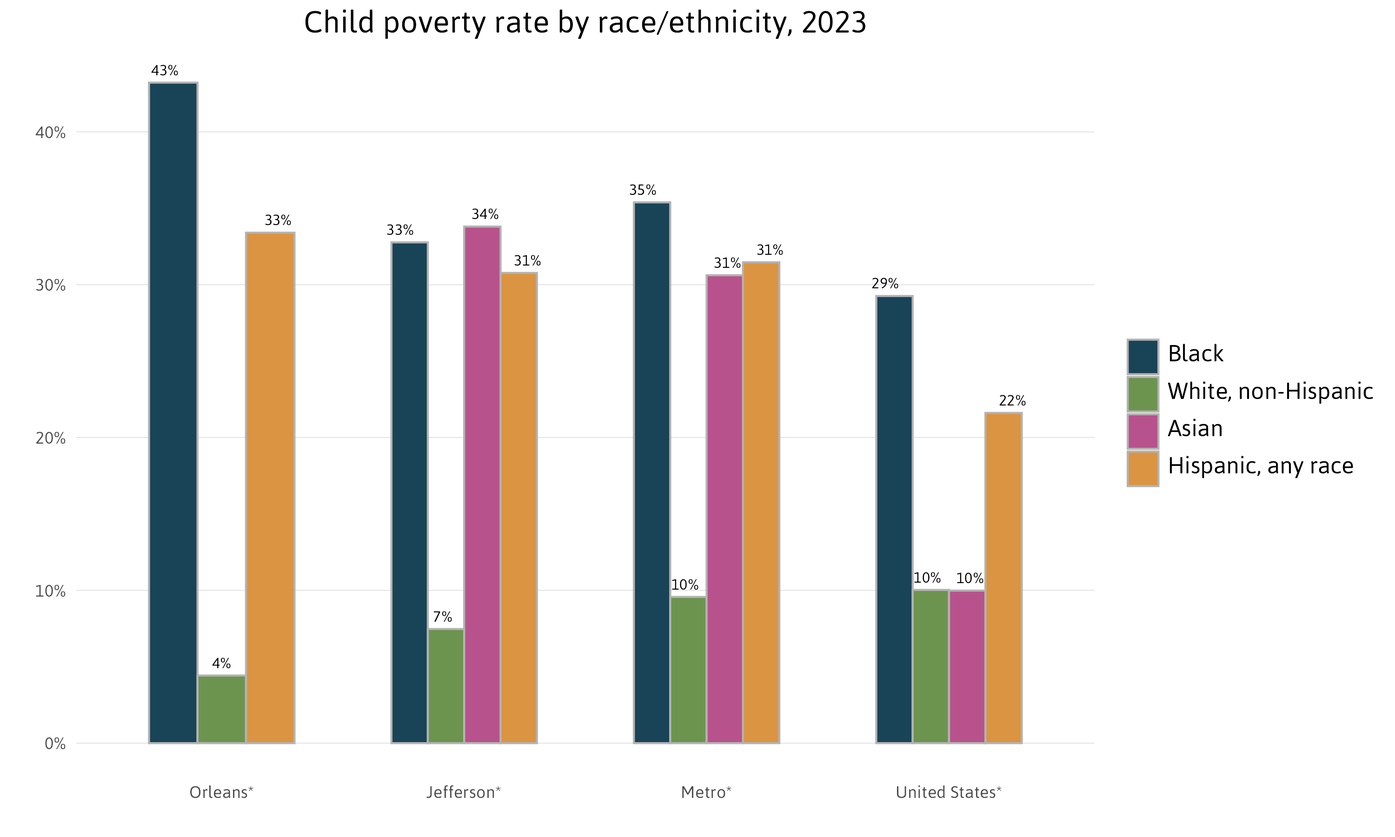
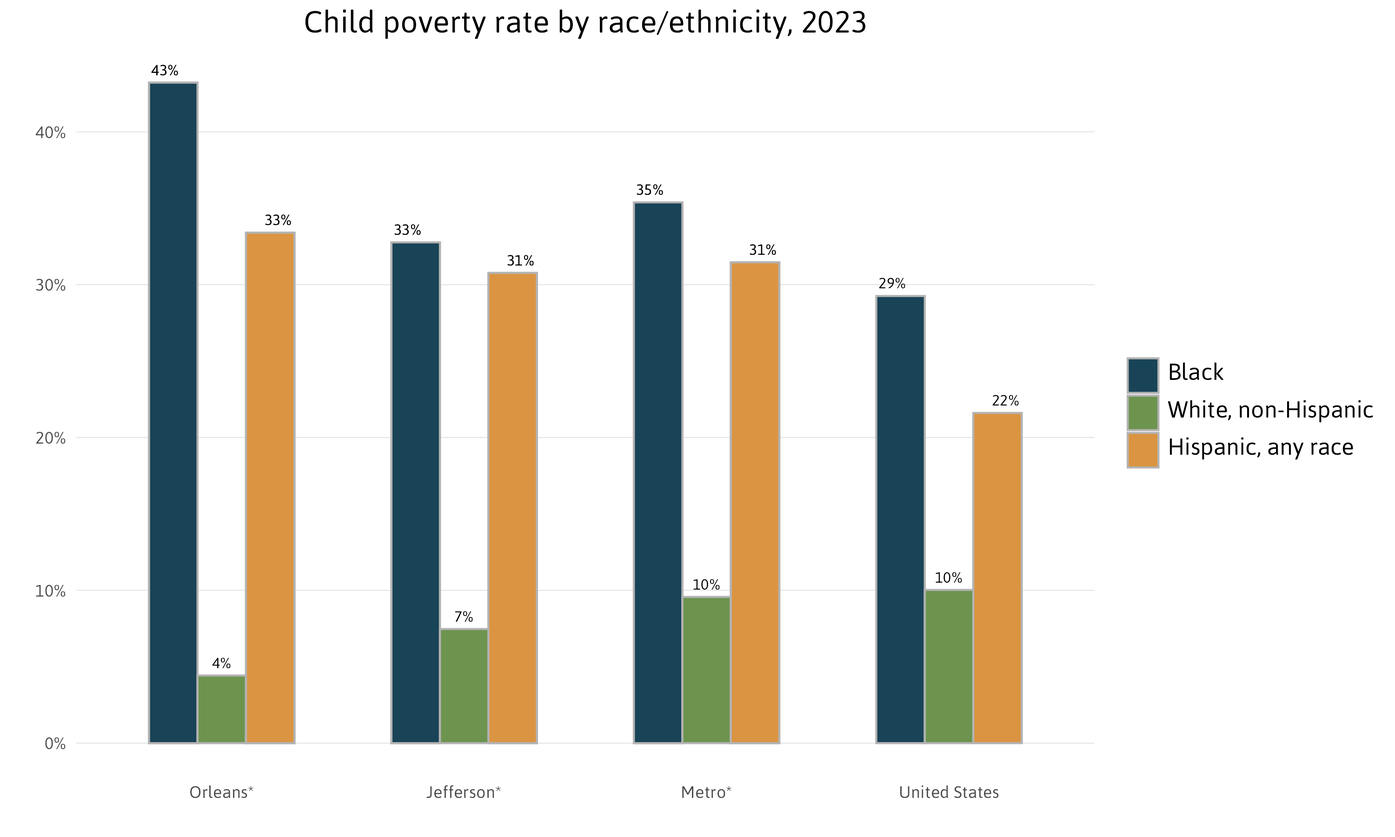
final touches to Rmd

diff --git a/WhoLivesMarkdown.md b/WhoLivesMarkdown.md
@@ -1,6 +1,6 @@
 <div class="highlight" markdown="1"> 
 
-This brief examines the 2023 demographic data released by the U.S. Census Bureau covering race, ethnicity, and age.  This brief also covers 2023 estimates from the Census Bureau's annual American Community Survey (ACS) on a range of important topics such as educational attainment, poverty, and housing costs.   In 2023, the official definition of the New Orleans metro area changed to exclude St. Tammany, because a smaller portion of workers who live in St. Tammany are commuting to work in Orleans, Jefferson, and other parishes on the south shore of Lake Pontchartrain. To learn more about how metro areas are defined and how this change came about read this [Research Note](https://www.datacenterresearch.org/reports_analysis/on-st-tammanys-split-from-the-new-orleans-metro/).
+This brief examines the 2023 demographic data released by the U.S. Census Bureau covering race, ethnicity, and age. This brief also covers 2023 estimates from the Census Bureau's annual American Community Survey (ACS) on a range of important topics such as educational attainment, poverty, and housing costs. In 2023, the official definition of the New Orleans metro area changed to exclude St. Tammany, because a smaller portion of workers who live in St. Tammany are commuting to work in Orleans, Jefferson, and other parishes on the south shore of Lake Pontchartrain. To learn more about how metro areas are defined and how this change came about read this [Research Note](https://www.datacenterresearch.org/reports_analysis/on-st-tammanys-split-from-the-new-orleans-metro/).
 </div>
 
 The U.S. Census Bureau estimates that 962,165 residents were living in
@@ -14,7 +14,7 @@ metro area parishes since 2000 (or the best benchmark available).
 
 Compared to 2000, pre-Katrina, there are now 120,876 fewer Black
 residents living in New Orleans (Orleans Parish), and there are 23,503
-fewer White residents as well as 14,531 more Hispanic residents.[^2]
+fewer White residents, as well as 14,531 more Hispanic residents.[^2]
 
 <img src="https://s3.amazonaws.com/files.datacenterresearch/who-lives/2024/09/AAWhiteHispan-1.png" style="display: block; margin: auto;" />
 
@@ -49,13 +49,13 @@ area since 2000.
 </div>
 
 Between 2000 and 2023, the number of Hispanics in Jefferson Parish more
-than doubled – reaching 79,805 or more than 19 percent of the total
+than doubled — reaching 79,805 or more than 19 percent of the total
 parish population. In Orleans and St. Bernard parishes, the Hispanic
-population nearly doubled – growing to 29,563 (8 percent of the
+population nearly doubled — growing to 29,563 (8 percent of the
 population) in Orleans and 6,206 (14 percent of the population) in
-St. Bernard. The number of Hispanics St. Charles, St. John the Baptist,
-Plaquemines, and St. James more than doubled reaching 4,231, 3,788,
-2,250, and 395 respectively.
+St. Bernard. The number of Hispanics in St. Charles, St. John the
+Baptist, Plaquemines, and St. James more than doubled reaching 4,231,
+3,788, 2,250, and 395 respectively.
 
 As of July 2023, there were 126,238 Hispanics in the metro area,
 representing 13 percent of the metro population. This is up from 2000
@@ -91,15 +91,15 @@ Hispanic is an umbrella term comprising multiple nationalities and
 ethnicities. Researchers have shown that most Hispanics prefer to
 identify by nationality rather than by pan-ethnic terms such as
 “Hispanic” and “Latino.”[^3] The nationalities of Hispanics residing in
-metro New Orleans are quite distinct from the national Hispanic profile.
+Metro New Orleans are quite distinct from the national Hispanic profile.
 
-In 2023, the largest Hispanic group in metro New Orleans was Honduran,
+In 2023, the largest Hispanic group in Metro New Orleans was Honduran,
 representing 29 percent of the Hispanic population. In comparison,
 Hondurans represent only 2 percent of the national Hispanic population.
-These figures point to metro New Orleans as a hub of Honduran migration.
+These figures point to Metro New Orleans as a hub of Honduran migration.
 
 Not to be ignored, the Mexican population represents 16 percent of the
-Hispanic population in metro New Orleans. Nevertheless, the Mexican
+Hispanic population in Metro New Orleans. Nevertheless, the Mexican
 population is much less prominent in the metro than nationally, where it
 represents 58 percent of the Hispanic population.
 
@@ -165,7 +165,7 @@ percent.
 **Source**: The Data Center analysis of U.S. Census Bureau data from Census 2000 SF3 and American Community Survey 2023.</p>
 </div>
 
-Overall the youth population is substantially lower than pre-Katrina
+Overall, the youth population is substantially lower than pre-Katrina
 levels. The metro had 303,054 children under 18 years in 2000 and only
 206,918 in 2023. More than half of this loss was driven by Orleans
 Parish, where the population under 18 has declined to 70,990 from
@@ -181,9 +181,9 @@ population, down from 27 percent in 2000.
 </div>
 <div class="highlight" markdown="1"> 
 
-### Where is data for Plaquemines, St. Bernard, St. James, St. Charles, and St. John the Baptist?
+### Where is data for Plaquemines, St. Bernard, St. James, St. Charles, and St. John the Baptist?
 
-Although race/ethnicity and age data is available for all seven parishes in metro New Orleans, most other demographic data (such as educational attainment, poverty, and homeownership) is available for only the two most populous parishes of Jefferson and Orleans, as well as the metro.
+Although race/ethnicity and age data is available for all seven parishes in Metro New Orleans, most other demographic data (such as educational attainment, poverty, and homeownership) is available for only the two most populous parishes of Jefferson and Orleans, as well as the metro.
 </div>
 
 ## Educational attainment, income, and employment {#educational-attainment-income-and-employment}
@@ -193,7 +193,7 @@ workforce skills, and regional resiliency.[^5] In New Orleans, 45
 percent of adults 25 and older had at least a bachelor’s degree in 2023
 — higher than the U.S. average of 36 percent, and up from 26 percent in
 2000. The Jefferson Parish share of adults with a bachelor’s degree is
-30 percent up from 21 percent in 2000. Overall the share of adults with
+30 percent up from 21 percent in 2000. Overall, the share of adults with
 a bachelor’s degree in Metro New Orleans from 22 to 35 percent — just
 short of the national average of 36 percent.
 
@@ -206,9 +206,9 @@ short of the national average of 36 percent.
 
 The share of New Orleans adults who have a bachelor’s degree has grown
 across racial and ethnic groups since 1980. But while 72 percent of
-White adults in New Orleans have a bachelor’s, only 47 percent of Asian
-adults, 43 percent of Hispanic adults, and 27 percent of Black adults in
-New Orleans have a bachelor’s as of 2023.
+White adults in New Orleans have a bachelor’s, only 43 percent of
+Hispanic adults, and 27 percent of Black adults in New Orleans have a
+bachelor’s as of 2023.
 
 <img src="https://s3.amazonaws.com/files.datacenterresearch/who-lives/2024/09/bachovertime-1.png" style="display: block; margin: auto;" />
 
@@ -224,9 +224,9 @@ New Orleans have a bachelor’s as of 2023.
 
 <div class="source" style="clear: left; padding-left: 30px;" markdown="1"> 
 
-∗ = In Orleans Parish, the difference between Hispanic and Asian is not statistically significant.   
+**Notes**: Due to high margins of error, data for Asians is not included in this chart.   
 ∗ = In Jefferson Parish, the difference between Black and Hispanic is not statistically significant.   
-∗ = In the New Orleans Metro area, the difference between White and Asian and Black and Hispanic is not statistically significant.   
+∗ = In Metro New Orleans, the difference between Black and Hispanic is not statistically significant.   
 **Source**: The Data Center analysis of U.S. Census Bureau data from American Community Survey 2023.</p>
 </div>
 
@@ -238,7 +238,7 @@ Jefferson, and the metro as a whole. The metro share of adults without a
 high school degree fell from 23 percent in 2000 to 12 percent in 2023.
 In Jefferson Parish, 14 percent of adults 25 and older have less than a
 high school degree while in New Orleans only 9 percent of adults have
-less than a high school degree – lower than the national average.
+less than a high school degree — lower than the national average.
 
 <img src="https://s3.amazonaws.com/files.datacenterresearch/who-lives/2024/09/hs-1.png" style="display: block; margin: auto;" />
 
@@ -247,7 +247,7 @@ less than a high school degree – lower than the national average.
 **Source**: The Data Center analysis of U.S. Census Bureau data from Census 2000 SF3 and American Community Survey 2023.</p>
 </div>
 
-The 2023 median household income in Orleans Parish is $55,580 – 13
+The 2023 median household income in Orleans Parish is $55,580 — 13
 percent higher than in 2000 after controlling for inflation. Meanwhile,
 the median household income in Jefferson Parish, at $61,085 is 12
 percent lower than in 2000 after controlling for inflation. The 2023
@@ -259,7 +259,7 @@ significantly lower than the U.S. median of $77,719.
 
 <div class="source" style="clear: left; padding-left: 30px;" markdown="1"> 
 
-∗ = Difference between 1999 and 2023 is not significant at 95% confidence interval.   
+**Notes**: 1999 data is not available for Metro New Orleans.   
 **Source**: The Data Center analysis of U.S. Census Bureau data from Census 2000 SF3 and American Community Survey 2023.</p>
 </div>
 
@@ -267,9 +267,9 @@ In 1979, households with higher incomes were disproportionately in the
 parishes surrounding New Orleans, while lower income White, Hispanic,
 and Black households were more likely to live in the city.[^6] By 2023,
 these patterns had changed with higher income White households more
-often living in the city such that income disparity within the city has
+often living in the city, such that income disparity within the city has
 escalated. In 2023, Black households in New Orleans had a median income
-of only $38,092, while Hispanic households were at $56,992 and White
+of only $38,092, while Hispanic households were at $56,992, and White
 households at $97,494.
 
 <img src="https://s3.amazonaws.com/files.datacenterresearch/who-lives/2024/09/medhhtime-1.png" style="display: block; margin: auto;" />
@@ -286,19 +286,16 @@ households at $97,494.
 In 2023, Black households in New Orleans have incomes 61 percent less
 than White households. In Jefferson, Black households have a median
 income of $40,198 which is 45 percent less than White households in that
-parish who have a median income of 73678. Notably, Black households
-across the metro have a median income of 40841, which is well below
-their national peers (53927). And Asian households in Metro New Orleans
-have a median income of 68079 which is about 40 percent lower than their
-national peers (111817).
+parish who have a median income of $73,678. Notably, Black households
+across the metro have a median income of $40,841, which is well below
+their national peers ($53,927).
 
 <img src="https://s3.amazonaws.com/files.datacenterresearch/who-lives/2024/09/medhhbyrace-1.png" style="display: block; margin: auto;" />
 
 <div class="source" style="clear: left; padding-left: 30px;" markdown="1"> 
 
-∗ = In Orleans Parish, the difference between Black and Hispanic and Hispanic and Asian is not statistically significant.  
-∗ = In Jefferson Parish, the difference between White and Asian and Hispanic and Asian is not statistically significant.   
-∗ = In the New Orleans Metro Area, the difference between Hispanic and Asian is not statistically significant.   
+**Notes**: Due to high margins of error, data for Asians is not included in this chart.   
+∗ = In Orleans Parish, the difference between Black and Hispanic is not statistically significant.  
 
 **Source**: The Data Center analysis of U.S. Census Bureau data from American Community Survey 2023.</p>
 </div>
@@ -320,9 +317,9 @@ Black men had employment.
 
 <div class="source" style="clear: left; padding-left: 30px;" markdown="1"> 
 
-∗ = Change in time is not significant for White and Hispanic males.  
-∗ = Change in time is not significant for Black males for 2000-2010 and 2000-2023.
-∗ = Change in time is not significant for Black females for 2010-2023.   
+∗ = Change in time is not significant for Hispanic Males.   
+∗ = Change in time is not significant for White and Black males and females for 2000-2010.     
+∗ = Change in time is not significant for Hispanic females for 2010-2023.   
 **Source**: The Data Center analysis of U.S. Census Bureau data from American Community Survey 2023.</p>
 </div>
 
@@ -337,9 +334,10 @@ national peers.
 
 <div class="source" style="clear: left; padding-left: 30px;" markdown="1"> 
 
-**Notes**: The Hispanic employment rate by gender is unavailable for Orleans Parish in 2023.   
+**Notes**: Due to high margins of error, data for Asians is not included in this chart.   
+∗ = In Orleans Parish, the difference between White and Hispanic males is not significant.   
 ∗ = In Jefferson Parish, the difference between White and Black males, White and Black females, White and Hispanic females, and Black and Hispanic females is not significant.   
-∗ = In the New Orleans Metro area, the difference between White and Hispanic females is not significant.   
+∗ = In Metro New Orleans, the difference between White and Hispanic females is not significant.   
 
 **Source**: The Data Center analysis of U.S. Census Bureau data from American Community Survey 2023.</p>
 </div>
@@ -350,22 +348,21 @@ A high share of residents living below the poverty level indicates the
 economy is not providing many residents with the ability to meet their
 most basic needs, including food, housing, and transportation. The
 poverty rate in New Orleans decreased from 28 to 23 percent between 1999
-and 2023while the Jefferson Parish poverty rate increased from 14 to 17
-percent. Across the U.S., the poverty rate increased by one percentage
-point between 1999 and 2023.
+and 2023, while the Jefferson Parish poverty rate increased from 14 to
+17 percent. Across the U.S., the poverty rate increased by one
+percentage point between 1999 and 2023.
 
 <img src="https://s3.amazonaws.com/files.datacenterresearch/who-lives/2024/09/pov-1.png" style="display: block; margin: auto;" />
 
 <div class="source" style="clear: left; padding-left: 30px;" markdown="1"> 
 
-∗ = Difference between 1999 and 2023 is not significant at 95% confidence interval.   
 **Source**: The Data Center analysis of U.S. Census Bureau data from Census 2000 SF3 and American Community Survey 2023.</p>
 </div>
 <div class="highlight" markdown="1"> 
 
 ### How is poverty measured? 
 
-The Census still uses the federal definition for poverty that was first created in 1964. The original calculations were based on studies from the early 1960s that indicated that family food costs were about one-third of a family’s budget. But housing costs have risen much faster than food costs since 1964. Also, the current calculations don’t count non-cash government aid, like Child Tax Credits or housing subsidies, as income. And they aren’t adjusted for differences in costs of living in different parts of the country. Given these limitations, the Census began publishing a Supplemental Poverty Measure that incorporates up-to-date data on regional housing costs as well as several kinds of government aid.  According to the Census, the 2020 Supplemental Poverty Rate for the U.S. was 9.1 percent. The Official Poverty Rate that same year was 11.4 percent.[^8]  The Census Bureau does not calculate Supplemental Poverty Rates for geographies smaller than the nation as a whole.[^9]
+The Census still uses the federal definition for poverty that was first created in 1964. The original calculations were based on studies from the early 1960s that indicated that family food costs were about one-third of a family’s budget. But housing costs have risen much faster than food costs since 1964. Also, the current calculations don’t count non-cash government aid, like Child Tax Credits or housing subsidies, as income. And they aren’t adjusted for differences in costs of living in different parts of the country. Given these limitations, the Census began publishing a Supplemental Poverty Measure that incorporates up-to-date data on regional housing costs as well as several kinds of government aid. According to the Census, the 2023 Supplemental Poverty Rate for the U.S. was 12.9 percent. The Official Poverty Rate that same year was 11.1 percent.[^8] The Census Bureau does not calculate Supplemental Poverty Rates for geographies smaller than the nation as a whole.[^9]
 </div>
 
 The poverty rate for Black New Orleanians spiked when the 1980s “oil
@@ -389,23 +386,23 @@ remained about triple that of White New Orleanians.
 
 Large disparities in the poverty rate continue to be evident at all
 geographic levels. For example, in Metro New Orleans 26 percent of Black
-people, 22 percent of Hispanic people, and 20 percent of Asian people
-live in poverty compared to 10 percent of White people.
+people and 22 percent of Hispanic people live in poverty compared to 10
+percent of White people.
 
 <img src="https://s3.amazonaws.com/files.datacenterresearch/who-lives/2024/09/povbyrace-1.png" style="display: block; margin: auto;" />
 
 <div class="source" style="clear: left; padding-left: 30px;" markdown="1"> 
 
-∗ = In Orleans Parish, the difference between White and Asian, Black and Asian, and Hispanic and Asian is not statistically significant.   
-∗ = In Jefferson Parish, the difference between Black and Hispanic, Black and Asian, and Hispanic and Asian is not statistically significant.   
-∗ = In the New Orleans Metro Area, the difference between Black and Hispanic, Black and Asian, and Hispanic and Asian is not statistically significant.   
+**Notes**: Due to high margins of error, data for Asians is not included in this chart.   
+∗ = In Jefferson Parish, the difference between Black and Hispanic is not statistically significant.   
+∗ = In the New Orleans Metro Area, the difference between Black and Hispanic is not statistically significant.   
 **Source**: The Data Center analysis of U.S. Census Bureau data from American Community Survey 2023.</p>
 </div>
 
 Like the overall poverty rate, the child poverty rate in New Orleans
 decreased from 41 percent 1999 to 32 percent in 2023. In Jefferson, 23
-percent of children live in poverty and across the metro 25, both higher
-than the national rate.
+percent of children live in poverty and across the metro 25 percent,
+both higher than the national rate.
 
 <img src="https://s3.amazonaws.com/files.datacenterresearch/who-lives/2024/09/childpov-1.png" style="display: block; margin: auto;" />
 
@@ -415,12 +412,12 @@ than the national rate.
 **Source**: The Data Center analysis of U.S. Census Bureau data from Census 2000 SF3 and American Community Survey 2023.</p>
 </div>
 
-In Orleans Parish,43 percent of Black children live in poverty while 4
+In Orleans Parish, 43 percent of Black children live in poverty while 4
 percent of White children are poor. In New Orleans, child poverty rates
-peaked in 1989 for Black children and have fallen, but, at 43 percent,
-are still 10 times higher than poverty rate for White children in New
-Orleans. The poverty rate for White children has declined from about one
-in 10 children in poverty in 1979 to about one in 50 in 2023.
+peaked in 1989 for Black children and have fallen, but at 43 percent are
+still 10 times higher than poverty rate for White children in New
+Orleans. The poverty rate for White children has declined from about 1
+in 10 children in poverty in 1979 to about 1 in 50 in 2023.
 
 <img src="https://s3.amazonaws.com/files.datacenterresearch/who-lives/2024/09/childpovhist-1.png" style="display: block; margin: auto;" />
 
@@ -435,19 +432,18 @@ in 10 children in poverty in 1979 to about one in 50 in 2023.
 
 While in Orleans, poverty rates for Black children are 10 times higher
 than for White children, in Jefferson Parish Black children experience
-poverty about 5 times higher rates than White children. In Metro New
-Orleans, 31 percent of Hispanic children live in poverty – higher than
+poverty about five times higher rates than White children. In Metro New
+Orleans, 31 percent of Hispanic children live in poverty — higher than
 their national peers of whom 22 percent live in poverty.
 
 <img src="https://s3.amazonaws.com/files.datacenterresearch/who-lives/2024/09/childpovrace-1.png" style="display: block; margin: auto;" />
 
 <div class="source" style="clear: left; padding-left: 30px;" markdown="1"> 
 
-**Notes**: Due to high margins of error, the comparison between any race and Asian is not statistically significant in Orleans Parish.   
+**Notes**: Due to high margins of error, data for Asians is not included in this chart.   
 ∗ = In Orleans Parish, the difference between Black and Hispanic is not statistically significant.   
-∗ = In Jefferson Parish, the difference between Black and Asian, Black and Hispanic, and Hispanic and Asian is not statistically significant.   
-∗ = In the New Orleans Metro Area, the difference between Black and Hispanic, Black and Asian, and Hispanic and Asian is not statistically significant.   
-∗ = In United States, the difference between White and Asian is not statistically significant.   
+∗ = In Jefferson Parish, the difference between Black and Hispanic is not statistically significant.   
+∗ = In the New Orleans Metro Area, the difference between Black and Hispanic is not statistically significant.     
 **Source**: The Data Center analysis of U.S. Census Bureau data from Census 2000 SF3 and American Community Survey 2023.</p>
 </div>
 
@@ -461,7 +457,6 @@ transportation system and comprehensive evacuation plan.
 
 <div class="source" style="clear: left; padding-left: 30px;" markdown="1"> 
 
-∗ = Difference between 2000 and 2023 is not significant at 95% confidence interval.   
 **Source**: The Data Center analysis of U.S. Census Bureau data from Census 2000 SF3 and American Community Survey 2023.</p>
 </div>
 
@@ -538,7 +533,7 @@ was 5 percent in 2004 and has not significantly changed.
 <div class="source" style="clear: left; padding-left: 30px;" markdown="1"> 
 
 **Notes**: Share not included in the bar chart represents the population who lived in the same house one year ago (non-movers). For people living in the same house as a year ago, the difference between 2004 and 2023 is not significant at the 95% confidence interval for Orleans Parish. It is significant for all other geographies   
-**Notes**: 2004 data is not available for metro New Orleans.   
+**Notes**: 2004 data is not available for Metro New Orleans.   
 ∗ = Difference between 2004 and 2023 is not significant at 95% confidence interval.   
 **Source**: The Data Center analysis of U.S. Census Bureau data from American Community Survey 2004 and 2023.</p>
 </div>
@@ -588,7 +583,7 @@ Jefferson Parish.
 
 <div class="source" style="clear: left; padding-left: 30px;" markdown="1"> 
 
-**Notes**: Due to high margins of error, the comparison between any race and Asian is not statistically significant in Orleans Parish.   
+**Notes**: Due to high margins of error, data for Asians is not included in this chart.   
 ∗ = In Orleans Parish, the difference between Black and Hispanic is not statistically significant.   
 ∗ = In Jefferson Parish, the difference between Black and Hispanic is not statistically significant.   
 ∗ = In the New Orleans Metro Area, the difference between Black and Hispanic is not statistically significant.   
@@ -617,17 +612,17 @@ High housing costs can limit a region’s ability to attract and retain
 the workforce essential for a healthy economy.[^12] Severe housing cost
 burdens of more than 50 percent of household income indicate a serious
 problem in housing affordability. In 2004, the share of severely
-cost-burdened renters in New Orleans and the U.S. was 24 and 24 percent,
-respectively. In the 19 years since, that share has spiked to 34 percent
-in Orleans while growing to only 26 percent nationally. In Jefferson
-Parish, the share of renters paying more than 50 percent of household
-income on housing and utilities is 32 percent in 2023.
+cost-burdened renters in New Orleans and the U.S. was 24 percent. In the
+19 years since, that share has spiked to 34 percent in Orleans while
+growing to only 26 percent nationally. In Jefferson Parish, the share of
+renters paying more than 50 percent of household income on housing and
+utilities is 32 percent in 2023.
 
 <img src="https://s3.amazonaws.com/files.datacenterresearch/who-lives/2024/09/rentbur-1.png" style="display: block; margin: auto;" />
 
 <div class="source" style="clear: left; padding-left: 30px;" markdown="1"> 
 
-**Notes**: 2004 data is not available for metro New Orleans.
+**Notes**: 2004 data is not available for Metro New Orleans.
 
 **Source**: The Data Center analysis of U.S. Census Bureau data from American Community Survey 2004 and 2023.</p>
 </div>
@@ -641,7 +636,7 @@ cost burden for renters vs. homeowners, and that gap has widened.
 
 <div class="source" style="clear: left; padding-left: 30px;" markdown="1"> 
 
-**Notes**: 2004 data is not available for metro New Orleans.
+**Notes**: 2004 data is not available for Metro New Orleans.
 
 ∗ = Difference between 2004 and 2023 is not significant at 95% confidence interval.
 
@@ -659,8 +654,8 @@ percent nationwide.
 
 <div class="source" style="clear: left; padding-left: 30px;" markdown="1"> 
 
-**Notes**: 2004 data is not available for metro New Orleans
-
+**Notes**: 2004 data is not available for Metro New Orleans   
+∗ = Difference between 2004 and 2023 is not significant at 95% confidence interval.    
 **Source**: The Data Center analysis of U.S. Census Bureau data from American Community Survey 2004 and 2023.</p>
 </div>
 
@@ -681,8 +676,6 @@ percent of housing stock has been built since 1990.
 
 <div class="source" style="clear: left; padding-left: 30px;" markdown="1"> 
 
-∗ = Difference between indicated measure and the U.S. is not significant at 95% confidence interval.
-
 **Source**: The Data Center analysis of U.S. Census Bureau data from American Community Survey 2023.</p>
 </div>
 
@@ -698,8 +691,6 @@ Orleans or across the nation (14 percent).
 <img src="https://s3.amazonaws.com/files.datacenterresearch/who-lives/2024/09/commute-1.png" style="display: block; margin: auto;" />
 
 <div class="source" style="clear: left; padding-left: 30px;" markdown="1"> 
-
-∗ = Difference between 2000 and 2023 is not significant at 95% confidence interval.
 
 **Source**: The Data Center analysis of U.S. Census Bureau data from Census 2000 SF3 and American Community Survey 2023.</p>
 </div>
@@ -773,7 +764,7 @@ Standard errors for Census 2000 and Census 2010 SF1 data are zero.
     <https://s3.amazonaws.com/gnocdc/reports/ProsperityIndex.pdf>.
 
 [^8]: The latest Supplemental Poverty Measure report can be found at
-    <https://www.census.gov/content/dam/Census/library/publications/2021/demo/p60-275.pdf>.
+    <https://www.census.gov/library/publications/2024/demo/p60-283.html>.
 
 [^9]: Guidance for how to approximate the Supplemental Poverty Measure
     using ACS geographies can be found at
